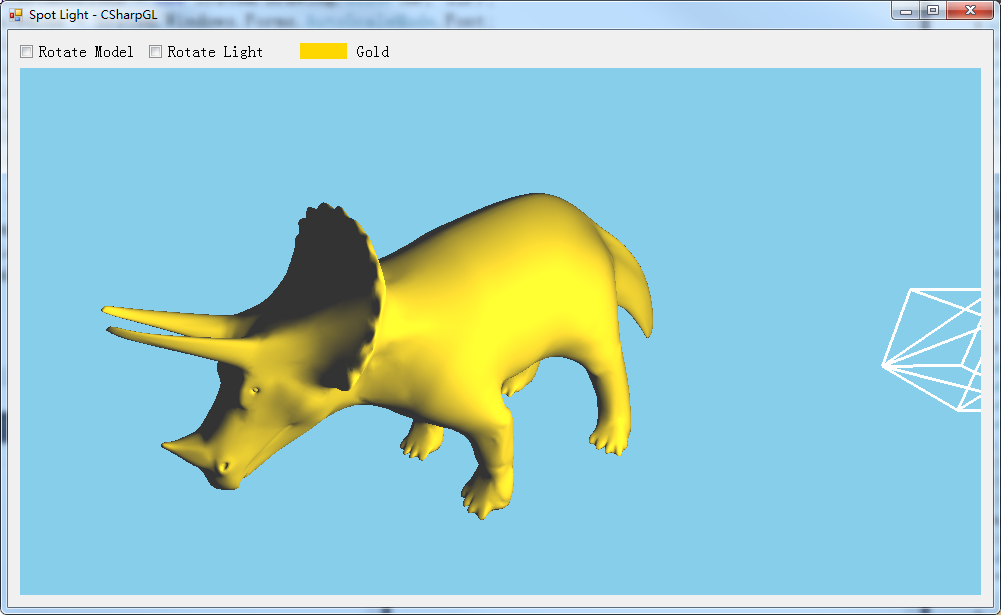
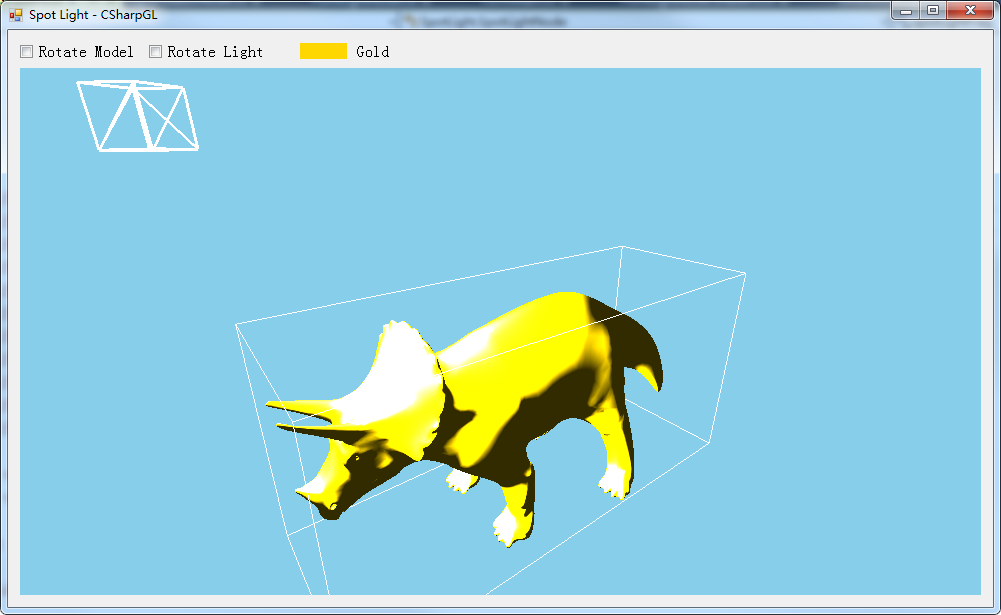
spot light's specular comopnent

diff --git a/Demos/SpotLight/SpotLightNode.shaders.cs b/Demos/SpotLight/SpotLightNode.shaders.cs
@@ -31,6 +31,8 @@ void main(void)
 ";
         private const string spotLightFrag = @"#version 150 core
 
+uniform float shiness = 6;
+uniform float strength = 1;
 uniform vec3 ambientColor = vec3(0.2, 0.2, 0.2);
 uniform vec3 diffuseColor = vec3(1, 0.8431, 0);
 uniform vec3 lightPosition = vec3(0, 0, 0); // light's position in eye space.
@@ -48,18 +50,29 @@ out vec4 vFragColor;
 
 void main(void)
 {
+    vec3 normal = normalize(passNormal);
     vec3 L = lightPosition - passPosition;
 	vec3 D = normalize(spotDirection);
 	// calculate the overlap between the spot and the light direciton
 	float spotEffect = dot(-L, D);
 	if (spotEffect > spotCutoff)
     {
-        float diffuse = max(0, dot(normalize(L), normalize(passNormal)));
+        float diffuse = max(0, dot(normalize(L), normal));
         float distance = length(L);
         float attenuationAmount = 1.0 / (constantAttenuation + linearAttenuation * distance + quadraticAttenuation * distance * distance);
+        attenuationAmount *= pow(spotEffect, spotExponent);
 	    diffuse *= attenuationAmount;
-	
-        vFragColor = vec4((ambientColor + diffuse) * diffuseColor, 1);
+        
+        float specular = 0;
+        if (diffuse > 0)
+        {
+            vec3 halfVector = normalize(L + vec3(0, 0, 1));// vec3(0, 0, 1) is camera's direction.
+            specular = max(0, dot(halfVector, normal));
+            specular = pow(specular, shiness) * strength;
+            specular *= attenuationAmount;
+	    }
+
+        vFragColor = vec4((ambientColor + diffuse) * diffuseColor + specular, 1);
     }
 	else
     {
